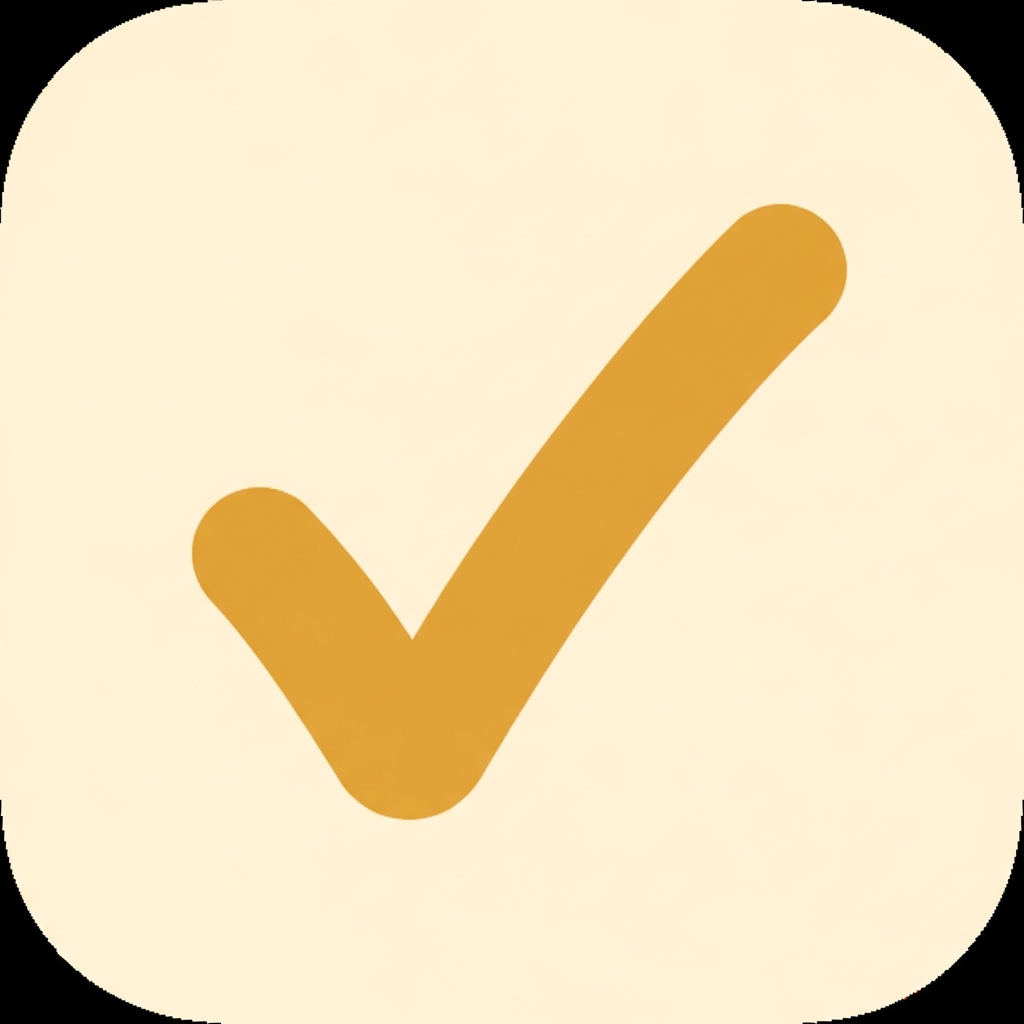
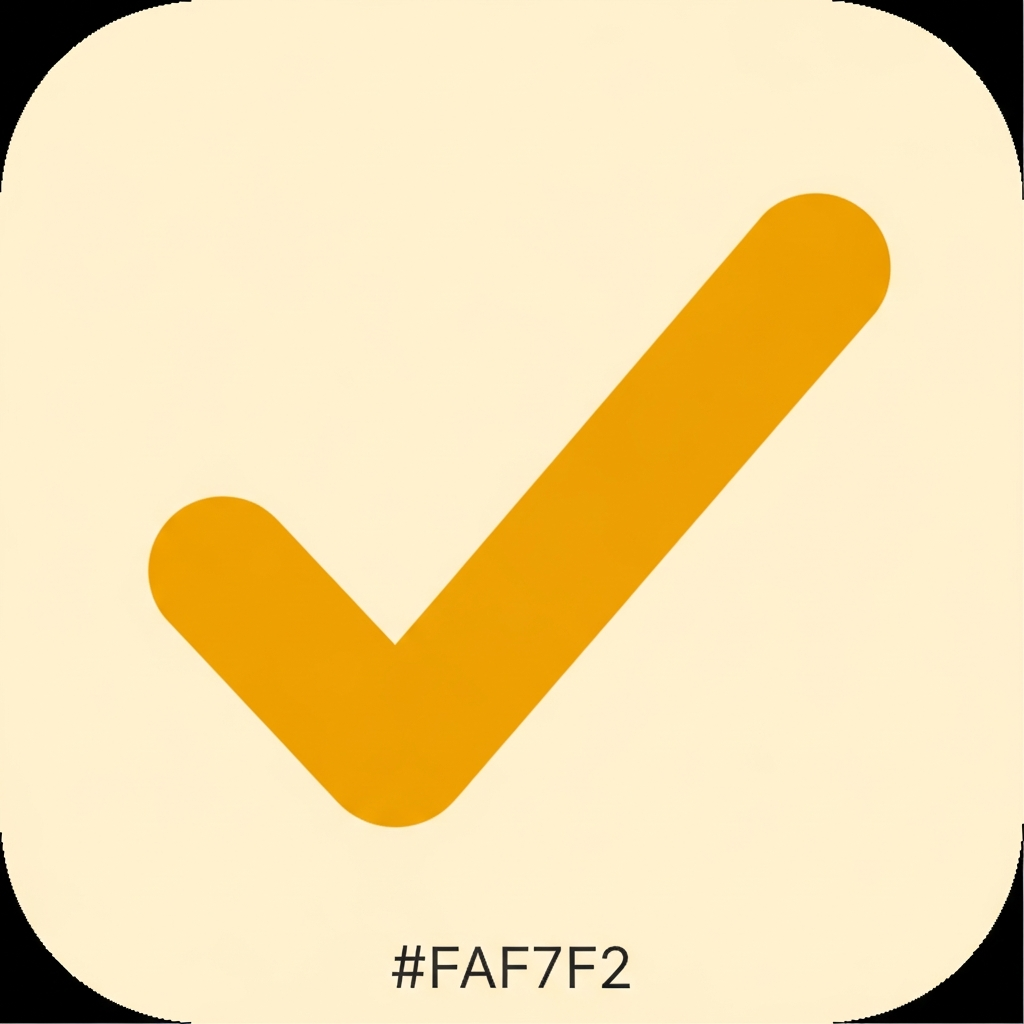
Improve checkmark appearance and add animation for task completion
Update the OrganicCheck component with a more geometric and visible checkmark, regenerate app icons, and implement a reset functionality to restart the app from the launch screen.

Replit-Commit-Author: Agent
Replit-Commit-Session-Id: 6b418593-6016-48e8-b976-c173d0a8a886
Replit-Commit-Checkpoint-Type: intermediate_checkpoint
Replit-Commit-Event-Id: c421e02e-b631-4bb7-b466-b7e77aef41f6
Replit-Commit-Screenshot-Url: https://storage.googleapis.com/screenshot-production-us-central1/647b620c-2053-4e11-8612-b3114ffe02e3/6b418593-6016-48e8-b976-c173d0a8a886/mnmNi2S
Replit-Helium-Checkpoint-Created: true

diff --git a/app/_layout.tsx b/app/_layout.tsx
@@ -1,7 +1,7 @@
 import { QueryClientProvider } from "@tanstack/react-query";
 import { Stack } from "expo-router";
 import * as SplashScreen from "expo-splash-screen";
-import React, { useEffect, useState } from "react";
+import React, { useEffect, useState, useCallback } from "react";
 import { View } from "react-native";
 import { GestureHandlerRootView } from "react-native-gesture-handler";
 import { KeyboardProvider } from "react-native-keyboard-controller";
@@ -9,7 +9,7 @@ import { ErrorBoundary } from "@/components/ErrorBoundary";
 import LaunchScreen from "@/components/LaunchScreen";
 import Colors from "@/constants/colors";
 import { queryClient } from "@/lib/query-client";
-import { AppProvider } from "@/lib/AppContext";
+import { AppProvider, useApp } from "@/lib/AppContext";
 import { StatusBar } from "expo-status-bar";
 import {
   useFonts,
@@ -46,8 +46,33 @@ function RootLayoutNav() {
   );
 }
 
-export default function RootLayout() {
+function AppContent() {
   const [showLaunch, setShowLaunch] = useState(true);
+  const [launchKey, setLaunchKey] = useState(0);
+  const { setOnResetCallback } = useApp();
+
+  const triggerLaunch = useCallback(() => {
+    setLaunchKey(k => k + 1);
+    setShowLaunch(true);
+  }, []);
+
+  useEffect(() => {
+    setOnResetCallback(() => triggerLaunch);
+    return () => setOnResetCallback(null);
+  }, [triggerLaunch, setOnResetCallback]);
+
+  return (
+    <View style={{ flex: 1 }}>
+      <StatusBar style="dark" />
+      <RootLayoutNav />
+      {showLaunch && (
+        <LaunchScreen key={launchKey} onComplete={() => setShowLaunch(false)} />
+      )}
+    </View>
+  );
+}
+
+export default function RootLayout() {
   const [fontsLoaded] = useFonts({
     Nunito_400Regular,
     Nunito_500Medium,
@@ -72,13 +97,7 @@ export default function RootLayout() {
         <GestureHandlerRootView style={{ flex: 1 }}>
           <KeyboardProvider>
             <AppProvider>
-              <StatusBar style="dark" />
-              <View style={{ flex: 1 }}>
-                <RootLayoutNav />
-                {showLaunch && (
-                  <LaunchScreen onComplete={() => setShowLaunch(false)} />
-                )}
-              </View>
+              <AppContent />
             </AppProvider>
           </KeyboardProvider>
         </GestureHandlerRootView>

diff --git a/lib/AppContext.tsx b/lib/AppContext.tsx
@@ -29,6 +29,8 @@ interface AppContextValue {
   yesterdayMissed: boolean;
   justLeveledUp: boolean;
   setJustLeveledUp: (v: boolean) => void;
+  onResetCallback: (() => void) | null;
+  setOnResetCallback: (cb: (() => void) | null) => void;
 }
 
 const AppContext = createContext<AppContextValue | null>(null);
@@ -40,6 +42,7 @@ export function AppProvider({ children }: { children: ReactNode }) {
   const [isLoading, setIsLoading] = useState(true);
   const [yesterdayMissed, setYesterdayMissed] = useState(false);
   const [justLeveledUp, setJustLeveledUp] = useState(false);
+  const [onResetCallback, setOnResetCallback] = useState<(() => void) | null>(null);
 
   const loadData = useCallback(async () => {
     try {
@@ -170,8 +173,9 @@ export function AppProvider({ children }: { children: ReactNode }) {
     await clearAllData();
     setJustLeveledUp(false);
     setYesterdayMissed(false);
+    onResetCallback?.();
     await loadData();
-  }, [loadData]);
+  }, [loadData, onResetCallback]);
 
   const canAddMoreTasks = useMemo(() => {
     if (!profile || !todayEntry) return true;
@@ -194,7 +198,9 @@ export function AppProvider({ children }: { children: ReactNode }) {
     yesterdayMissed,
     justLeveledUp,
     setJustLeveledUp,
-  }), [profile, todayEntry, entries, isLoading, updateProfile, addTask, completeTask, addReflection, canAddMoreTasks, loadData, resetAllData, yesterdayMissed, justLeveledUp]);
+    onResetCallback,
+    setOnResetCallback,
+  }), [profile, todayEntry, entries, isLoading, updateProfile, addTask, completeTask, addReflection, canAddMoreTasks, loadData, resetAllData, yesterdayMissed, justLeveledUp, onResetCallback]);
 
   return <AppContext.Provider value={value}>{children}</AppContext.Provider>;
 }

diff --git a/components/OrganicCheck.tsx b/components/OrganicCheck.tsx
@@ -4,8 +4,8 @@ import Svg, { Path } from 'react-native-svg';
 
 const AnimatedPath = Animated.createAnimatedComponent(Path);
 
-const CHECK_PATH = "M 280 540 C 300 540 380 640 420 700 C 460 640 580 400 740 300";
-const PATH_LENGTH = 650;
+const CHECK_PATH = "M 250 540 L 420 720 L 780 280";
+const PATH_LENGTH = 750;
 
 interface OrganicCheckProps {
   size?: number;
@@ -27,7 +27,7 @@ export default function OrganicCheck({
   opacity = 1,
 }: OrganicCheckProps) {
   const dashOffset = useRef(new Animated.Value(animate ? PATH_LENGTH : 0)).current;
-  const scaledStroke = strokeWidth ?? (48 * size) / 1024;
+  const scaledStroke = strokeWidth ?? (56 * size) / 1024;
 
   useEffect(() => {
     if (animate) {
@@ -56,7 +56,7 @@ export default function OrganicCheck({
       <AnimatedPath
         d={CHECK_PATH}
         stroke={color}
-        strokeWidth={scaledStroke > 0 ? scaledStroke : 48}
+        strokeWidth={scaledStroke > 0 ? scaledStroke : 56}
         strokeLinecap="round"
         strokeLinejoin="round"
         fill="none"
